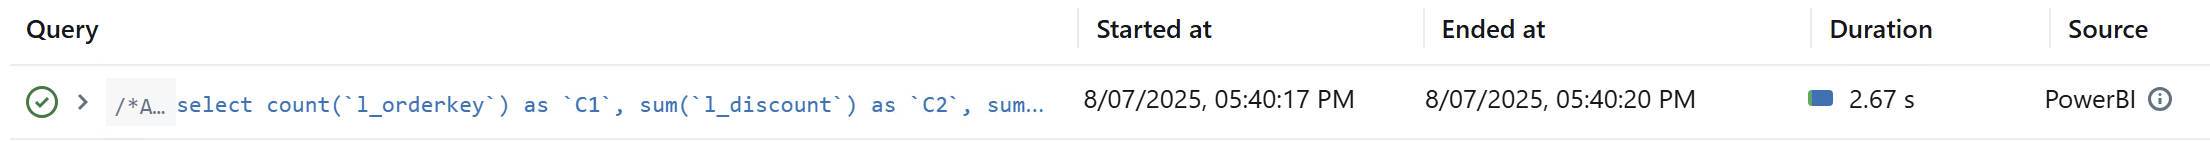
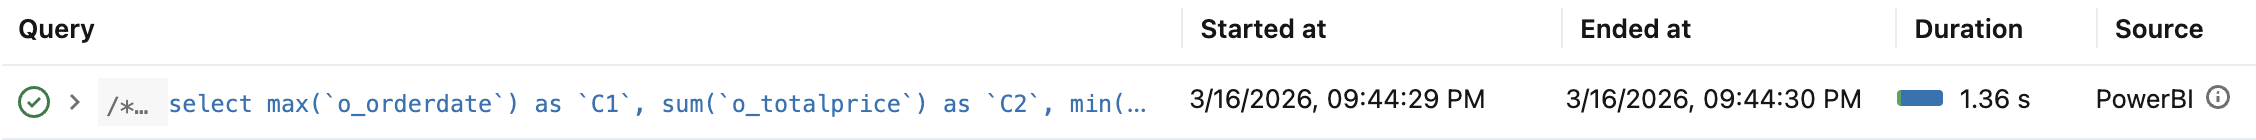
Automatic aggregations (#9)
* updated Automatic Aggregations

diff --git a/08. Automatic aggregations/readme.md b/08. Automatic aggregations/readme.md
@@ -4,7 +4,7 @@
 As per Microsoft documentation:
 > _[Automatic Aggregations](https://learn.microsoft.com/en-us/power-bi/enterprise/aggregations-auto) in Power BI use state-of-the-art machine learning (ML) to continuously optimize DirectQuery semantic models for maximum report query performance. Automatic aggregations are built on top of existing user-defined aggregations infrastructure first introduced with composite models for Power BI_.
 
-In this quickstart, we showcase how to enable [Automatic Aggregations](https://learn.microsoft.com/en-us/power-bi/enterprise/aggregations-auto) on Power BI semantic model and train Automatic Aggregations in order to speed up exploring report. You can follow the steps mentioned in the [Step by step walkthrough](#step-by-step-walkthrough) section.
+In this quickstart, we showcase how to enable [Automatic Aggregations](https://learn.microsoft.com/en-us/power-bi/enterprise/aggregations-auto) in Power BI semantic model and train Automatic Aggregations in order to speed up exploring report. You can follow the steps mentioned in the [Step by step walkthrough](#step-by-step-walkthrough) section.
 
 
 
@@ -37,48 +37,43 @@ Before you begin, ensure you have the following:
 5. Add tables as follows.Below is the data model for the sample report.
    - **`region`** - dimension table, **Dual** storage mode
    - **`nation`** - dimension table, **Dual** storage mode
-   - **`customer`** - dimension table, **Dual** storage mode
-   - **`part`** - dimension table, **Dual** storage mode
-   - **`supplier`** - dimension table, **Dual** storage mode
+   - **`customer`** - dimension table, **DirectQuery** storage mode
    - **`orders`** - fact table, **DirectQuery** storage mode
-   - **`lineitem`** - fact table, **DirectQuery** storage mode.
 
-6. Create table relationships as follows.
+6. If relationships are not created automatically, create table relationships as follows.
    - **`region`** → **`nation`** → **`customer`** → **`orders`** → **`lineitem`** 
-   - **`part`** → **`lineitem`** 
-   - **`supplier`** → **`lineitem`** 
 
 7. The semantic model should look as on the screenshot below.
 
     <img width="600" src="./images/DataModel.png" alt="Data model" />
 
-8. Create a simple tabular report displaying **`r_name`**, **`n_name`**, Count of **`l_orderkey`**, Earliest **`l_shipdate`**, Sum of **`l_discount`**, and Sum of **`l_quantity`** . 
+8. Create a simple tabular report displaying **`r_name`**, **`n_name`**, Count of **`l_orderkey`**, Earliest **`l_shipdate`**, Sum of **`l_discount`**, and Sum of **`l_quantity`**. Add **`r_name`** and **`n_name`** columns to page filters.
 
     <img width="600" src="./images/SampleReport.png" alt="Sample report" />
 
 9. Publish the report to Power BI Service, **Premium** workspace.
 
-10. Open the report in a web browser. Use **Developer Tools** → **Network** to analyze performance.
-> [!TIP]
-> See more details here - [Capture a browser trace for troubleshooting](https://learn.microsoft.com/en-us/azure/azure-portal/capture-browser-trace)
+10. Open the report in a web browser. Filter by **r_name** = **AFRICA**.
 
-11. Refresh visual. As shown below, in our environment it took **6.15s** to refresh the visuals.
+11. Open Performance Analyzer - **Edit** → **View** → **Performance Analyzer** → **Start recording**.
 
-    <img width="800" src="./images/PreAA-NetworkTrace.png" alt="Browser network trace" />
+12. Click **Refresh visuals**. As shown below, in our environment it took **2435ms** to refresh the visuals.
+
+    <img width="800" src="./images/PreAA-PerformanceAnalyzer.png" alt="Performance Analyzer" />
 
     The screenshot below shows the query hit the Databricks SQL Warehouse. 
 
     <img width="800" src="./images/QueryHistory.png" alt="Query history" />
 
-4. Now open the settings of the published semantic model in the **Premium** Power BI workspace.
+13. Now open the settings of the published semantic model in the **Premium** Power BI workspace.
 
-5. Enable the Automatic Aggregations in the semantic model settings. You can set the **Query coverage** according to your needs. This setting will increase the number of user queries analyzed and considered for performance improvement. The higher percentage of Query coverage will lead to more queries being analyzed, hence higher potential benefits, however aggregations training will take longer. 
+14. Enable the Automatic Aggregations in the semantic model settings. You can set the **Query coverage** according to your needs. This setting will increase the number of user queries analyzed and considered for performance improvement. The higher percentage of Query coverage will lead to more queries being analyzed, hence higher potential benefits, however aggregations training will take longer. 
 
     <img width="800" src="./images/AutomaticAggregationsConfiguration.png" alt="Automatic aggregations configuration" />
 
     Click **Apply** to enable the automatic aggregations.
 
-6. Power BI uses an internal query log to train aggregations. Thus, we need to populate the query log. We can achieve this by opening the report and interacting with the report by selecting different **`r_name`** and **`n_name`** in the Filters pane. Alternatively, you can run a sample [DAX-query](./Query.dax) using [DAX Studio](https://daxstudio.org/). Please make sure to run it multiple times using different values for **`r_name`** and **`n_name`**.
+15. Power BI uses an internal query log to train aggregations. Thus, we need to populate the query log. We can achieve this by opening the report and interacting with the report by selecting different **`r_name`** in the Filters pane. Alternatively, you can run a sample [DAX-query](./Query.dax) using [DAX Studio](https://daxstudio.org/). Please make sure to run it multiple times using different values for **`r_name`**.
 
     ```
     // DAX Query
@@ -86,19 +81,11 @@ Before you begin, ensure you have the following:
         VAR __DS0FilterTable = 
             TREATAS({"AFRICA"}, 'region'[r_name])
 
-        VAR __DS0FilterTable2 = 
-            TREATAS({"ALGERIA"}, 'nation'[n_name])
-
-        VAR __DS0FilterTable3 = 
-            TREATAS({"Manufacturer#1"}, 'part'[p_mfgr])
-
         VAR __DS0Core = 
             SUMMARIZECOLUMNS(
                 'nation'[n_name],
                 'region'[r_name],
                 __DS0FilterTable,
-                __DS0FilterTable2,
-                __DS0FilterTable3,
                 "Suml_discount", CALCULATE(SUM('lineitem'[l_discount])),
                 "Suml_quantity", CALCULATE(SUM('lineitem'[l_quantity])),
                 "Minl_shipdate", CALCULATE(MIN('lineitem'[l_shipdate])),
@@ -106,18 +93,18 @@ Before you begin, ensure you have the following:
             )
 
         VAR __DS0PrimaryWindowed = 
-            TOPN(501, __DS0Core, 'nation'[n_name], 1, 'region'[r_name], 1)
+            TOPN(501, __DS0Core, 'region'[r_name], 1)
 
     EVALUATE
         __DS0PrimaryWindowed
 
     ORDER BY
-        'nation'[n_name], 'region'[r_name]
+        'region'[r_name]
     ```
 > [!NOTE]
 > Please note that for better aggregations training you need to run the multiple times by using different filter values for `r_name` and `n_nation` columns.
  
-7. Open Power BI workspace settings → Scheduled refresh and performance optimization. You should be able to see the estimated benefits of the automatic aggregations.
+16. Open Power BI workspace settings → Scheduled refresh and performance optimization. You should be able to see the estimated benefits of the automatic aggregations.
     
     <img width="800" src="./images/AutomaticAggregationsImpact.png" alt="Automatic aggregations impact" />
 
@@ -127,16 +114,21 @@ Before you begin, ensure you have the following:
 
 <img width="800" src="./images/Warning.png" alt="Warning" />
 
-
-8. Click Train and Refresh Now to start the aggregations training manually. You can also configure scheduled refresh here.
+17. Click Train and Refresh Now to start the aggregations training manually. You can also configure scheduled refresh here.
    
-9. Once the model is trained, Power BI will have aggregated values in in-memory cache. Next time you interact with the report using similar patterns (dimensions, measures, filters) Power BI will leverage cached aggregations to serve the queries and will not send queries to Databricks SQL Warehouse. Hence, you may expect sub-second report refresh performance.
+18. Once the model is trained, Power BI will have aggregated values in in-memory cache. Next time you interact with the report using similar patterns (dimensions, measures, filters) Power BI will leverage cached aggregations to serve the queries and will not send queries to Databricks SQL Warehouse. Hence, you may expect sub-second report refresh performance.
 
-9. Open the report in the browser. Set the same filter values as previously. You should see that web requests are now much faster. In our environment, the request took just **302ms** which is much faster than **6s** which we observed before enabling automatic aggregations.
+19. Open the report in the browser. Open Performance Analyzer - **Edit** → **View** → **Performance Analyzer** → **Start recording**.
 
-    <img width="800" src="./images/PostAA-NetworkTrace.png" alt="Browser network trace" />
+20. Set the same filter values as previously - **r_name** = **AFRICA**. Click **Refresh visuals**. You should see that the table refresh is now much faster. As shown below, in our environment it took **35ms** to refresh the visuals. That is much faster than **2435ms** that we observed initially. This is due to Power BI hitting automatic aggregations at `{r_name}` granularity.
 
-11. In Databricks Query History, you should also see that there are no new SQL-queries fired by Power BI to render the report page.
+    <img width="800" src="./images/PostAA-PerformanceAnalyzer.png" alt="Performance Analyzer" />
+
+21. In Databricks Query History, you should also see that there are no new SQL-queries fired by Power BI to render the report page.
+
+22. Now, add set another page filter in the report - **n_name** = **ALGERIA**. You should see that the table refresh is slower. In our test it took **3141ms**. This is because Power BI does not have aggregations at `{r_name, n_name}` granularity, therefore Power BI has to retrieve data via DirectQuery.
+
+    <img width="800" src="./images/PostAA-PerformanceAnalyzer2.png" alt="Browser network trace" />
 
 
 
